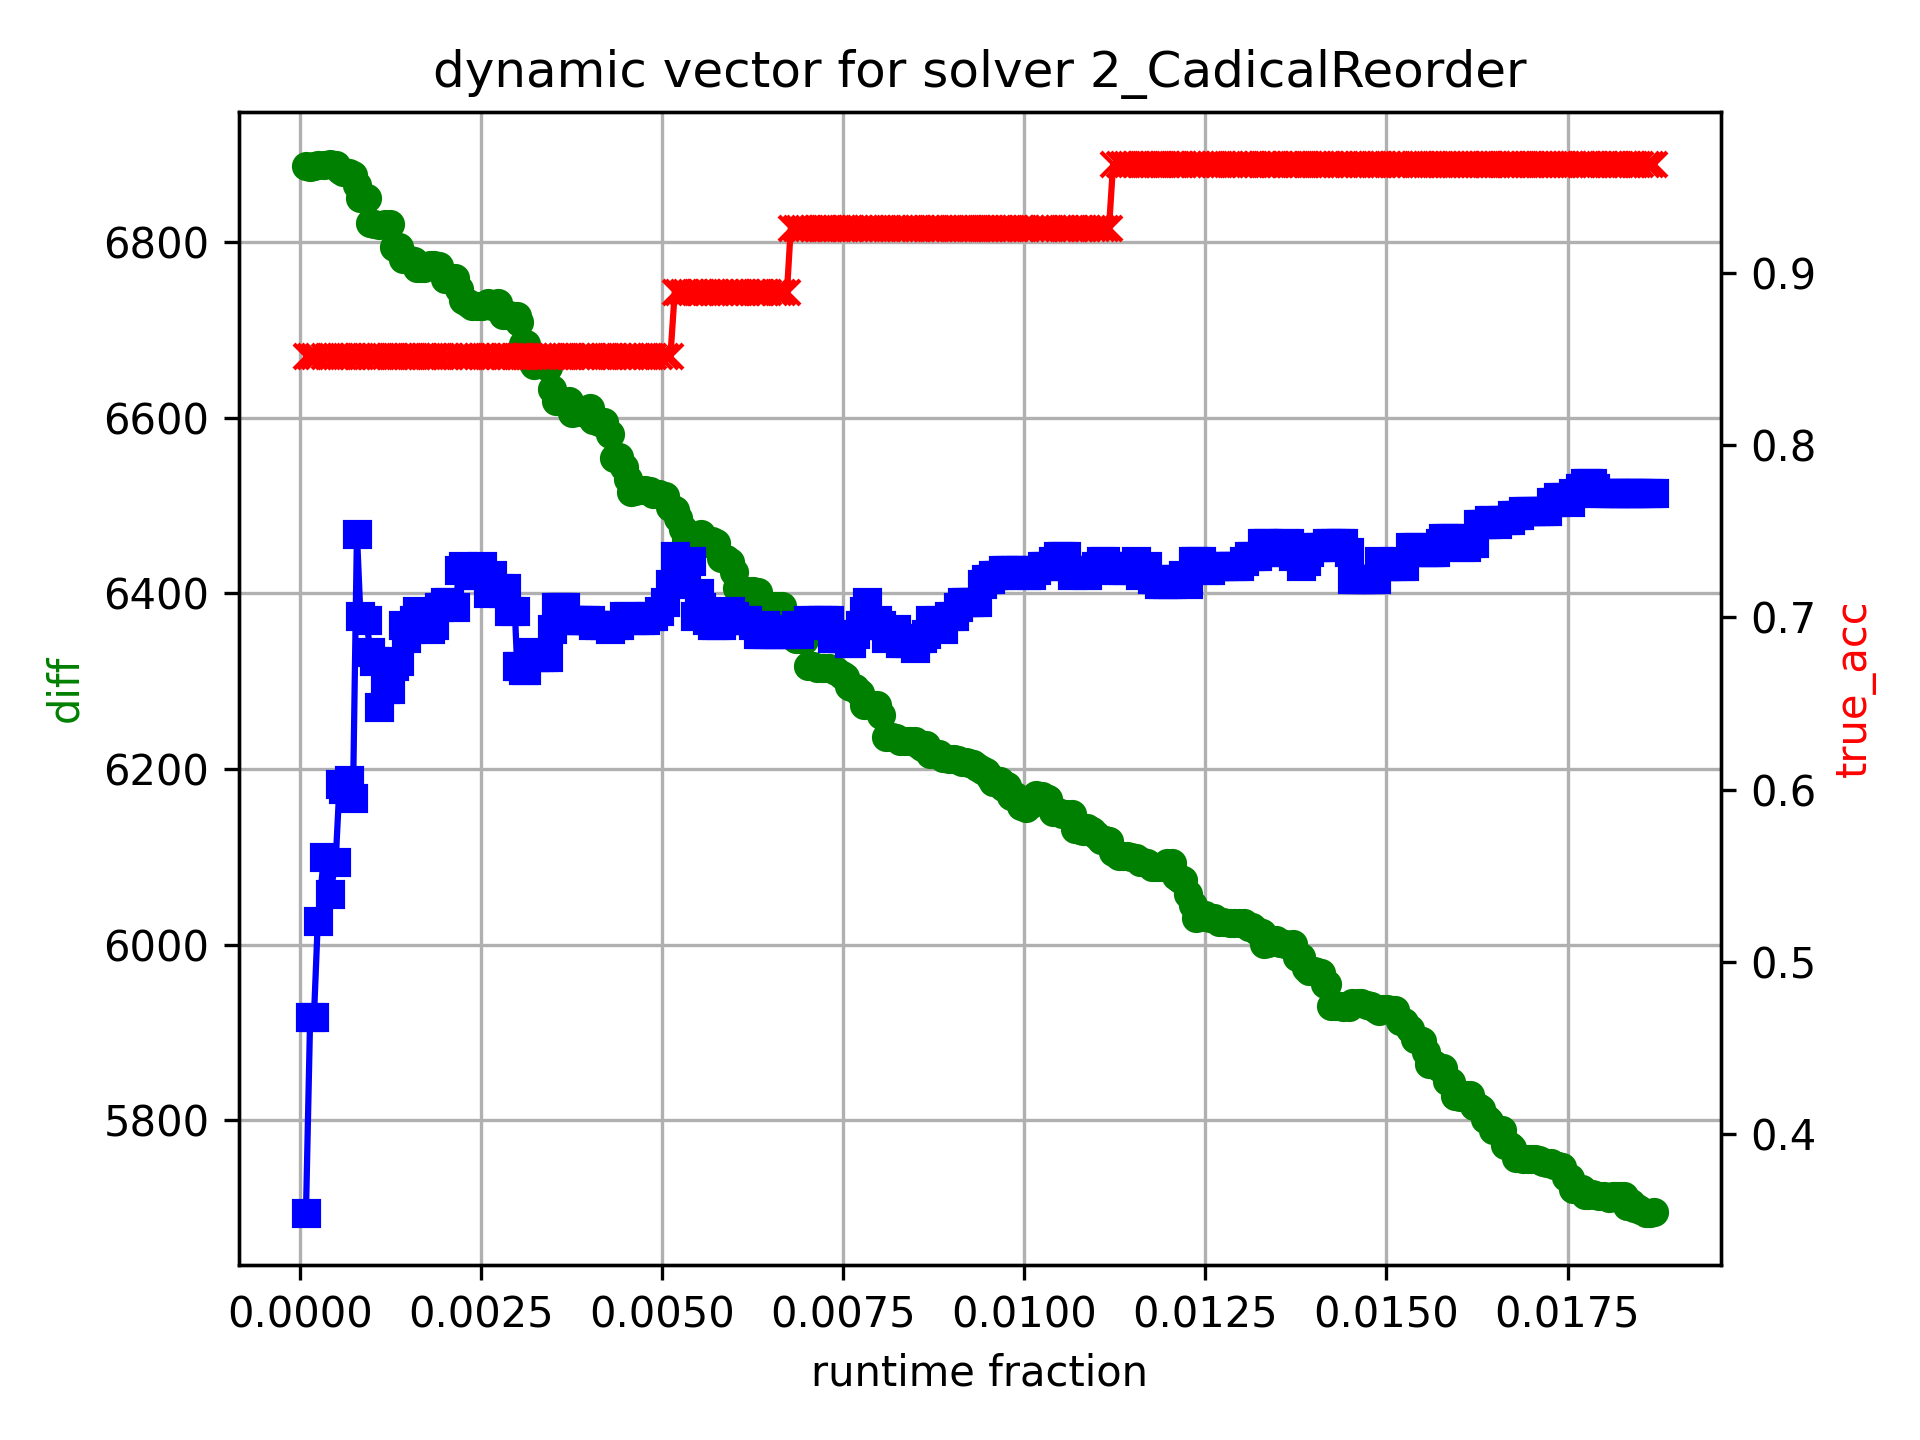
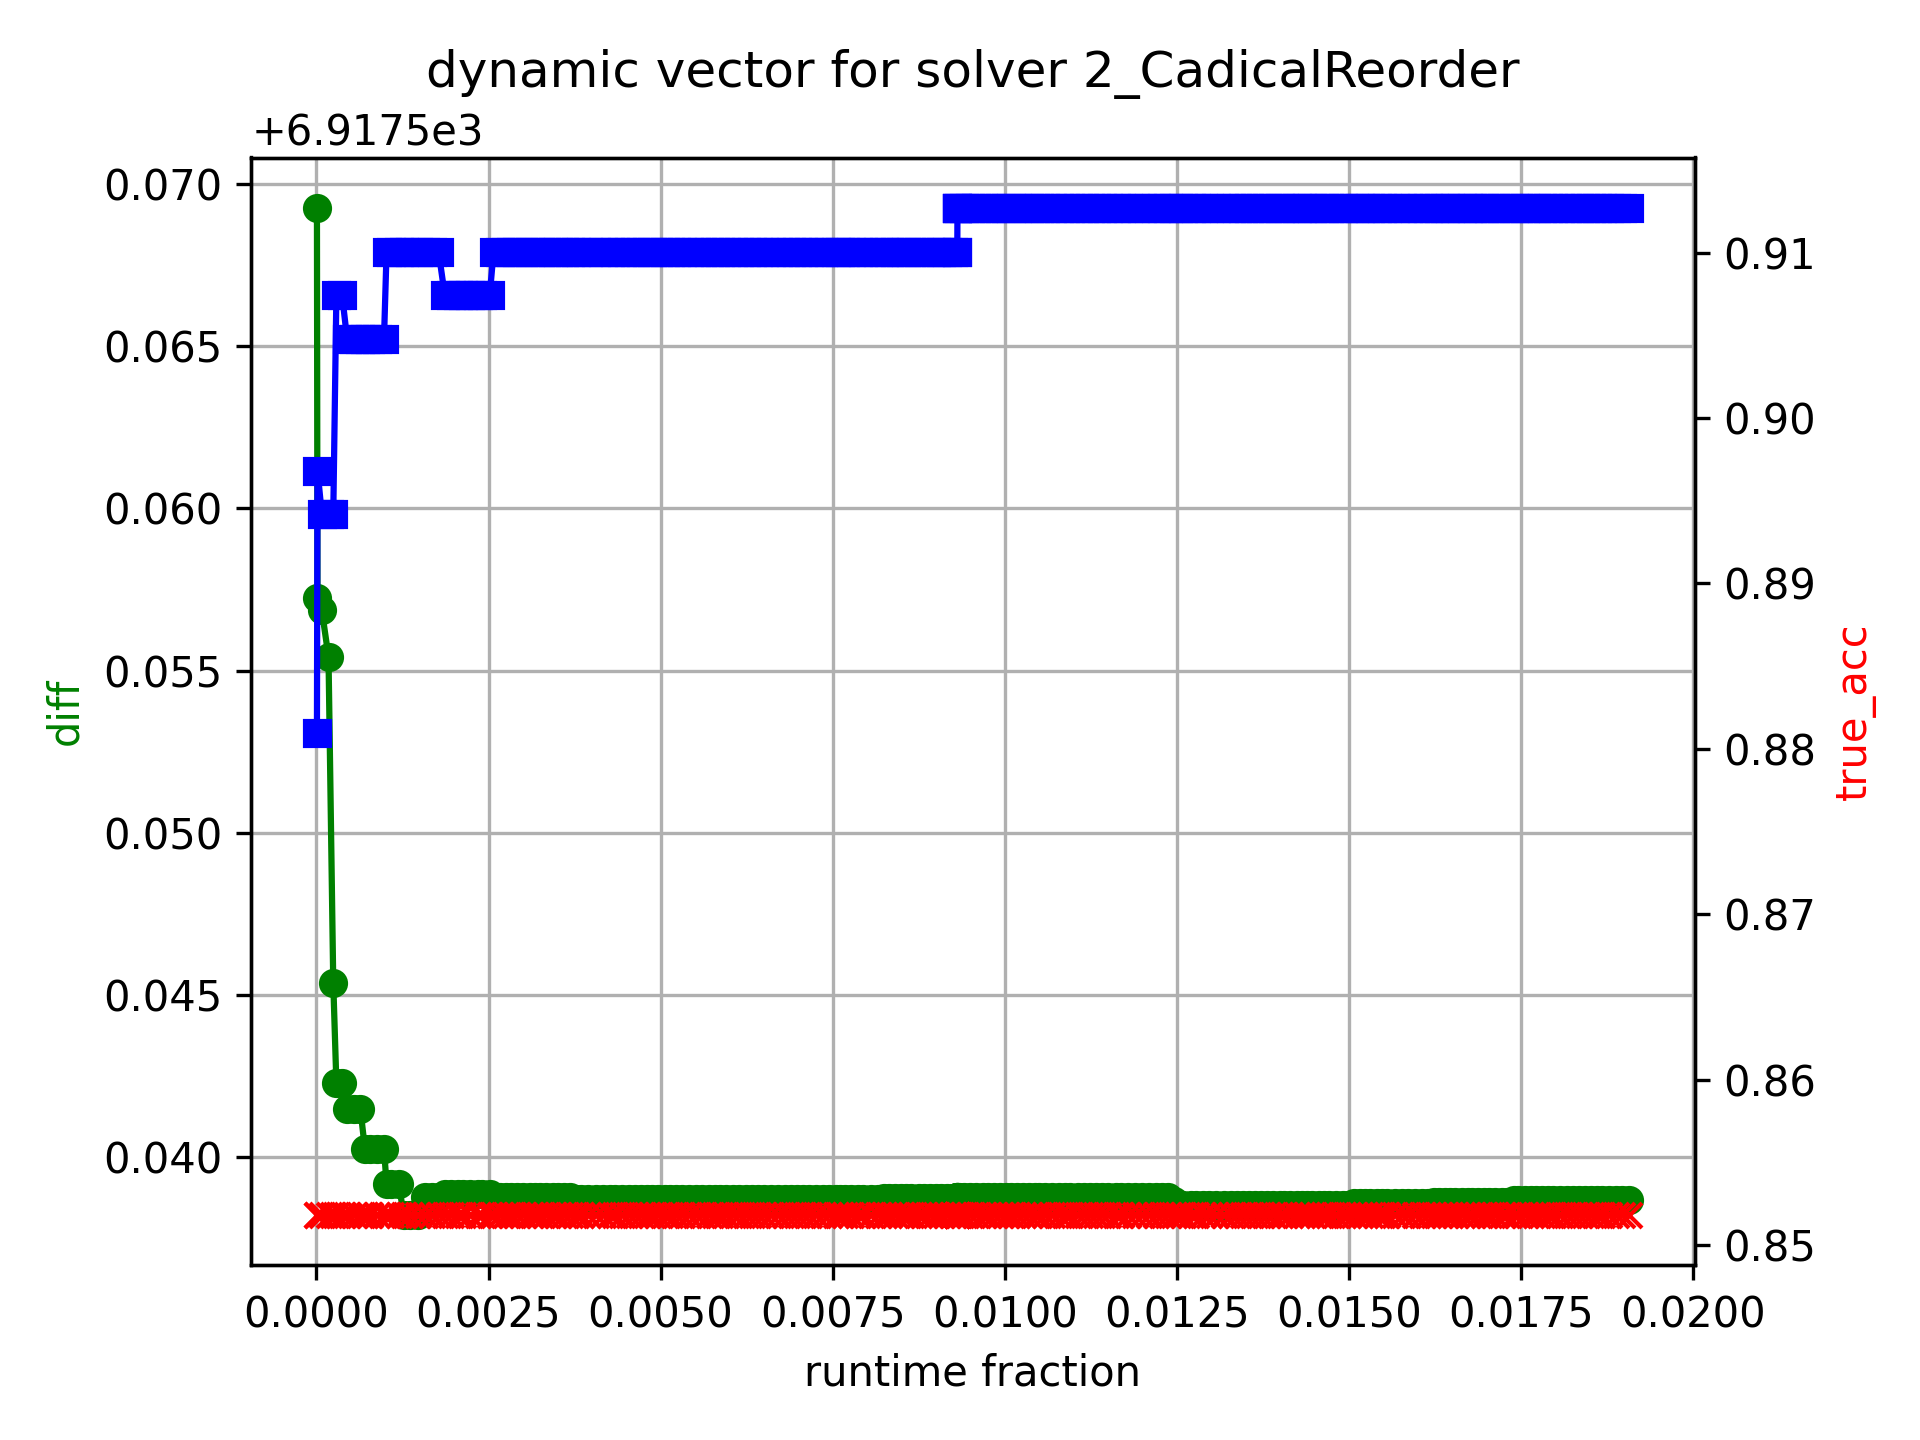
test: try to implement to take mean of remaining runtime as punishment

diff --git a/src/al_experiments/accuracy.py b/src/al_experiments/accuracy.py
@@ -10,6 +10,7 @@ class accuracy:
     stored_accs = {}
     _letters = np.frombuffer((string.ascii_lowercase + "AB").encode('ascii'), dtype=np.uint8)
     number_of_instances = 5355
+    number_of_solvers = 28
     number_of_reduced_solvers = 27
     pairs = (number_of_reduced_solvers * (number_of_reduced_solvers - 1))
     n = 0
@@ -19,12 +20,12 @@ class accuracy:
             thresholds: np.ndarray[np.floating[np.float32]],
             runtimes: np.ndarray[np.floating[np.float32]],
             par_2_scores,
-            mean_par_2_score: float,
+            min_par_2_score: float,
             runtime_to_add: float,
             prev_max_acc: float,
             prev_min_diff: float
     ):
-        best_instances, min_diff = self.find_best_index_min_diff(thresholds, runtimes, par_2_scores, mean_par_2_score, runtime_to_add)
+        best_instances, min_diff = self.find_best_index_min_diff(thresholds, runtimes, par_2_scores, min_par_2_score, runtime_to_add)
         if (best_instances.size == 0):
             return thresholds, prev_max_acc, -1 
         if self.sub_optimal_diff_mining(min_diff, prev_min_diff):
@@ -49,7 +50,7 @@ class accuracy:
             thresholds: np.ndarray[np.floating[np.float32]],
             runtimes: np.ndarray[np.floating[np.float32]],
             actu_par2,
-            actu_par2_mean: float,
+            actu_par2_min: float,
             runtime_to_add: float,
             allowed_idxs:  np.ndarray = None,
             tol: float = 1e-8
@@ -75,16 +76,25 @@ class accuracy:
         # extract only the K rows we care about
         if allowed_idxs is not None:
             thresholds = thresholds[allowed_idxs]          # (5355,)
-            runtimes = runtimes[allowed_idxs, :]         # (5355, allowed_idxs.size)
+            runtimes = runtimes[allowed_idxs, :]         # (5355, 27)
+
+
+
+        new_alive_instances = np.eye(self.number_of_instances, dtype=bool)
+        already_alive_instances = thresholds != 0
+        take_old_instances = already_alive_instances * ~new_alive_instances
+
+        number_of_living_instances = already_alive_instances.sum()
+        one_more_living_instance = number_of_living_instances + 1
 
 
         # 1) original score‐matrix on the subset
-        old_scores = self.replace_by_overflow_mean(runtimes, thresholds)             # (5355, allowed_idxs.size)
+        old_scores = self.replace_by_overflow_mean(runtimes, thresholds)             # (5355, 27)
 
         #print("old scores")
         #print(old_scores)
 
-        old_par_2 = old_scores.mean(axis=0)               # (allowed_idxs.size,)
+        old_par_2 = old_scores.mean(axis=0)               # (27,)
 
         #print("old scores")
         #print(old_scores)
@@ -92,17 +102,24 @@ class accuracy:
         # 2) scores with thresholds + x on the subset
         new_thresh = thresholds + runtime_to_add
         valid_mask = (new_thresh < 5000)
-        new_scores_adding_thresh_to_every_instance = self.replace_by_overflow_mean(runtimes, new_thresh)        # (5355, allowed_idxs.size)
+        new_scores_adding_thresh_to_every_instance = self.replace_by_overflow_mean(runtimes, new_thresh)        # (5355, 27)
 
-        # 3) candidate predictions for each allowed i
-        new_par_2_scores_when_adding_thresh_to_instance_i = old_par_2[None, :] + (new_scores_adding_thresh_to_every_instance - old_scores) / self.number_of_instances  # (5355, allowed_idxs.size)
+        total_solver_runtime = old_scores[already_alive_instances, :].sum(axis=0)  # (27,)
 
+        new_total_runtime_adding_thresh_to_instance_i = np.where(already_alive_instances[:, None], total_solver_runtime[None, :] + ((new_scores_adding_thresh_to_every_instance - old_scores)), total_solver_runtime[None, :] + (new_scores_adding_thresh_to_every_instance))
+
+
+        #print(pd.DataFrame(new_total_runtime_adding_thresh_to_instance_i))
         # 4) compute similarity for each candidate
-        pred_par2_mean = new_par_2_scores_when_adding_thresh_to_instance_i.mean(axis=1)    # (5355,)
-        scalings = actu_par2_mean / pred_par2_mean
-        par2_error_per_solver_per_selected_instance = np.abs(new_par_2_scores_when_adding_thresh_to_instance_i * scalings[:, None] - actu_par2[None, :]) # (5355, allowed_idxs.size)
-        total_error_per_selected_instance = par2_error_per_solver_per_selected_instance.sum(axis=1)      # (5355,)
+        total_min = new_total_runtime_adding_thresh_to_instance_i.min(axis=1)    # (5355,)
+        temp = new_total_runtime_adding_thresh_to_instance_i - total_min[:, None]
+        means = np.mean(temp, 1)
+        means[means == 0] = 0.001
+        error_per_solver_per_selected_instance = np.abs((temp) * (304.823517/means)[:, None] - (actu_par2[None, :] - actu_par2_min))  # (5355, 27)
+
+        total_error_per_selected_instance = error_per_solver_per_selected_instance.sum(axis=1)      # (5355,)
         best_total_error = total_error_per_selected_instance[valid_mask].min()
+        print(f"best={best_total_error}")
 
         # 6) pick all within tol of the minimum
         best_mask = np.isclose(total_error_per_selected_instance, best_total_error, atol=tol)
@@ -193,6 +210,25 @@ class accuracy:
             best_idx = allowed_idxs[best_mask & valid_mask]
 
         return best_idx, best_acc
+
+    def is_new_sum_correct(self, sum: np.ndarray, new_scores_adding_thresh_to_every_instance, thresholds, old_scores):
+        par_2_choosing_instance_i = []
+        for i in range(5355):
+            total_runtime = []
+            for j in range(5355):
+                if i == j:
+                    total_runtime.append(new_scores_adding_thresh_to_every_instance[j])
+                elif thresholds[j] == 0:
+                    continue
+                else:
+                    total_runtime.append(old_scores[j])
+            all_runtimes = pd.DataFrame(total_runtime)
+            par_2_choosing_instance_i.append(all_runtimes.sum(axis=0))
+        correct_sums = pd.DataFrame(par_2_choosing_instance_i)
+        print("manual")
+        print(correct_sums)
+        print("faster")
+        print(pd.DataFrame(sum))
 
     def replace_by_overflow_mean(self, values: np.ndarray, limits: np.ndarray):
         """
@@ -319,7 +355,16 @@ class accuracy:
         pred_par_2 = true_par_2.copy()
         pred_par_2[index] = pred_par_2_for_this_solver
         return self.calc_true_acc_1(true_par_2, pred_par_2, index)
-
+    
+    def vec_to_true_acc_2(
+            self,
+            thresholds: np.ndarray[np.floating[np.float32]],
+            runtimes: np.ndarray[np.floating[np.float32]],
+            true_par_2: np.ndarray,
+            index: int      
+    ):
+        scores = self.replace_by_overflow_mean(runtimes, thresholds)
+        
     def determine_acc(self, actu: np.ndarray, pred: np.ndarray):
         key = self.pred_vec_to_key(pred)
 

diff --git a/src/al_experiments.py b/src/al_experiments.py
@@ -556,7 +556,7 @@ def determine_tresholds(
 ) -> np.ndarray[np.floating[np.float32]]:
 
     max_runtime_per_step = 2 * runtime_per_step
-    mean_par_2_score = par_2_scores.mean()
+    min_par_2_score = par_2_scores.min()
 
     print(f"adding {runtime_per_step}s of runtime per step")
 
@@ -574,7 +574,7 @@ def determine_tresholds(
         runtime_to_add = random.random() * max_runtime_per_step
         thresholds, max_acc, min_diff = acc_calculator.add_runtime(
             thresholds, rated_runtimes, par_2_scores,
-            mean_par_2_score, runtime_to_add, max_acc, min_diff
+            min_par_2_score, runtime_to_add, max_acc, min_diff
         )
         if min_diff == -1:
             break
@@ -642,7 +642,7 @@ def get_stats(df_rated, df_runtimes, par_2_scores_series, par_2_scores, runtimes
 
 if __name__ == "__main__":
 
-    random_baseline_whole_instances_runtime_frac = np.array([0.012854, 0.014792, 0.016731, 0.018669, 0.020608, 0.022546, 0.024485, 0.026423, 0.028362, 0.030300, 0.032239, 0.034177, 0.036116, 0.038054, 0.039993, 0.041931, 0.043869, 0.045808, 0.047746, 0.049685, 0.051623, 0.053562, 0.055500, 0.057439, 0.059377, 0.061316, 0.063254, 0.065193, 0.067131, 0.069070, 0.071008, 0.072946, 0.074885, 0.076823, 0.078762, 0.080700, 0.082639, 0.084577, 0.086516, 0.088454, 0.090393, 0.092331, 0.094270, 0.096208, 0.098147, 0.100085, 0.102023, 0.103962, 0.105900, 0.107839, 0.109777, 0.111716, 0.113654, 0.115593, 0.117531, 0.119470, 0.121408, 0.123347, 0.125285, 0.127223, 0.129162, 0.131100, 0.133039, 0.134977, 0.136916, 0.138854, 0.140793, 0.142731, 0.144670, 0.146608, 0.148547, 0.150485, 0.152424, 0.154362, 0.156300, 0.158239, 0.160177, 0.162116, 0.164054, 0.165993, 0.167931, 0.169870, 0.171808, 0.173747, 0.175685, 0.177624, 0.179562, 0.181501, 0.183439, 0.185377, 0.187316, 0.189254, 0.191193, 0.193131, 0.195070, 0.197008, 0.198947, 0.200885, 0.202824, 0.204762])   
+    """    random_baseline_whole_instances_runtime_frac = np.array([0.012854, 0.014792, 0.016731, 0.018669, 0.020608, 0.022546, 0.024485, 0.026423, 0.028362, 0.030300, 0.032239, 0.034177, 0.036116, 0.038054, 0.039993, 0.041931, 0.043869, 0.045808, 0.047746, 0.049685, 0.051623, 0.053562, 0.055500, 0.057439, 0.059377, 0.061316, 0.063254, 0.065193, 0.067131, 0.069070, 0.071008, 0.072946, 0.074885, 0.076823, 0.078762, 0.080700, 0.082639, 0.084577, 0.086516, 0.088454, 0.090393, 0.092331, 0.094270, 0.096208, 0.098147, 0.100085, 0.102023, 0.103962, 0.105900, 0.107839, 0.109777, 0.111716, 0.113654, 0.115593, 0.117531, 0.119470, 0.121408, 0.123347, 0.125285, 0.127223, 0.129162, 0.131100, 0.133039, 0.134977, 0.136916, 0.138854, 0.140793, 0.142731, 0.144670, 0.146608, 0.148547, 0.150485, 0.152424, 0.154362, 0.156300, 0.158239, 0.160177, 0.162116, 0.164054, 0.165993, 0.167931, 0.169870, 0.171808, 0.173747, 0.175685, 0.177624, 0.179562, 0.181501, 0.183439, 0.185377, 0.187316, 0.189254, 0.191193, 0.193131, 0.195070, 0.197008, 0.198947, 0.200885, 0.202824, 0.204762])   
     random_baseline_whole_instances_true_acc = np.array([0.800671, 0.815994, 0.831123, 0.840869, 0.849788, 0.858210, 0.865402, 0.871996, 0.876478, 0.881804, 0.886714, 0.890490, 0.896291, 0.900608, 0.902859, 0.904178, 0.904763, 0.904025, 0.901968, 0.900711, 0.901171, 0.902492, 0.905383, 0.909716, 0.913746, 0.917232, 0.920133, 0.920813, 0.920997, 0.920607, 0.919150, 0.919176, 0.919301, 0.920650, 0.923952, 0.927819, 0.931296, 0.933643, 0.935445, 0.936112, 0.935805, 0.934204, 0.931470, 0.928752, 0.925632, 0.923231, 0.921840, 0.920926, 0.921713, 0.922844, 0.925048, 0.927268, 0.928746, 0.929591, 0.929659, 0.929496, 0.929816, 0.929342, 0.928226, 0.927260, 0.927368, 0.928662, 0.930807, 0.932590, 0.933650, 0.934468, 0.934882, 0.934914, 0.934747, 0.934176, 0.932449, 0.930397, 0.928821, 0.928179, 0.928629, 0.929744, 0.932620, 0.936301, 0.940253, 0.943307, 0.945378, 0.946918, 0.947236, 0.946021, 0.945092, 0.943900, 0.943051, 0.942690, 0.942132, 0.941903, 0.942127, 0.942416, 0.942220, 0.941933, 0.941853, 0.941881, 0.942131, 0.943495, 0.945489, 0.946260])
 
     random_baseline_dynamic_timeout_runtime_frac = np.array([0.000233, 0.002042, 0.003850, 0.005658, 0.007467, 0.009275, 0.011083, 0.012891, 0.014700, 0.016508, 0.018316, 0.020125, 0.021933, 0.023741, 0.025550, 0.027358, 0.029166, 0.030974, 0.032783, 0.034591, 0.036399, 0.038208, 0.040016, 0.041824, 0.043633, 0.045441, 0.047249, 0.049057, 0.050866, 0.052674, 0.054482, 0.056291, 0.058099, 0.059907, 0.061716, 0.063524, 0.065332, 0.067140, 0.068949, 0.070757, 0.072565, 0.074374, 0.076182, 0.077990, 0.079799, 0.081607, 0.083415, 0.085223, 0.087032, 0.088840, 0.090648, 0.092457, 0.094265, 0.096073, 0.097882, 0.099690, 0.101498, 0.103306, 0.105115, 0.106923, 0.108731, 0.110540, 0.112348, 0.114156, 0.115965, 0.117773, 0.119581, 0.121389, 0.123198, 0.125006, 0.126814, 0.128623, 0.130431, 0.132239, 0.134048, 0.135856, 0.137664, 0.139472, 0.141281, 0.143089, 0.144897, 0.146706, 0.148514, 0.150322, 0.152131, 0.153939, 0.155747, 0.157555, 0.159364, 0.161172, 0.162980, 0.164789, 0.166597, 0.168405, 0.170214, 0.172022, 0.173830, 0.175639, 0.177447, 0.179255])    
@@ -672,9 +672,8 @@ if __name__ == "__main__":
     plt.tight_layout()
     # Show or save
     plt.show()
-    #plt.savefig("instance_histogram.png", dpi=300)
-    
-    
+    #plt.savefig("instance_histogram.png", dpi=300) """
+
     push_notification("start test")
 
     acc_calculator = accuracy()
